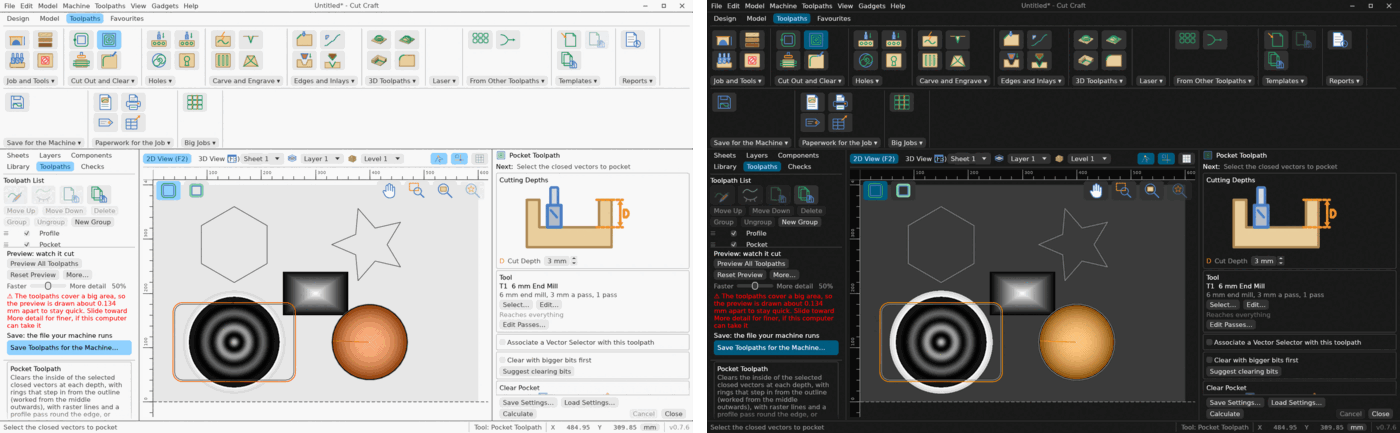
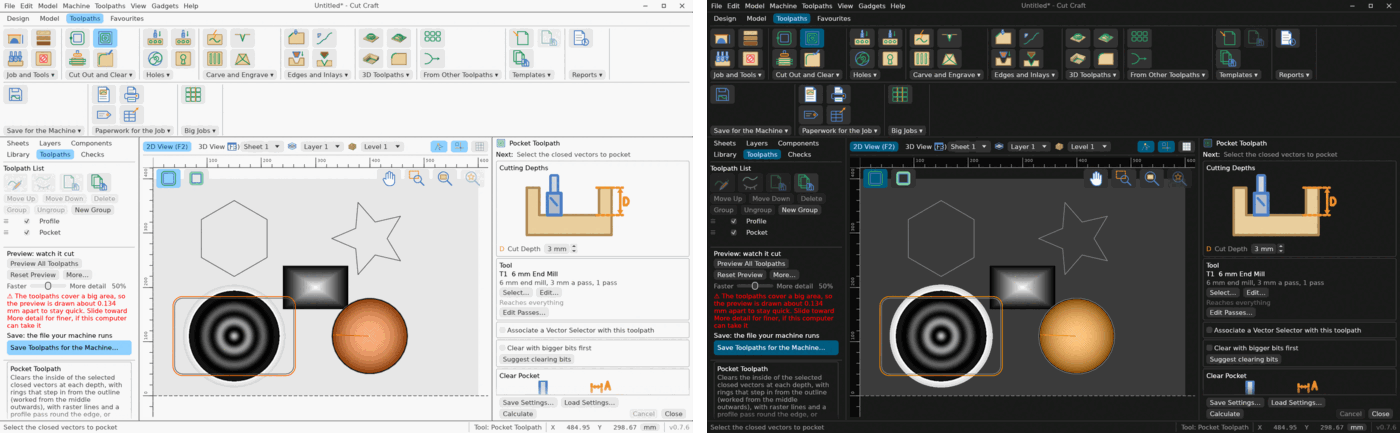
fix: leave off Ribbon groups with no tool for this machine, and correct the pins note
A machine without a laser showed an empty Laser group. The pins note said every
tool starts pinned; each group starts with the tools that fit under its name.
Retake the Ribbon pictures.

Claude-Session: https://claude.ai/code/session_01Uqr4BGyMEYcnxmg4ockVAV

diff --git a/crates/app/src/app/tests/selecting.rs b/crates/app/src/app/tests/selecting.rs
@@ -1305,6 +1305,7 @@ fn a_ribbon_tab_fits_in_two_rows_of_groups_and_each_name_lists_and_pins_every_to
         let (groups, _) = h.app.ribbon_groups();
         let rows: Vec<f32> = groups
             .iter()
+            .filter(|g| g.tools.iter().any(|id| h.app.offered(id)))
             .map(|g| {
                 h.text_at(&format!("{} ▾", g.name))
                     .unwrap_or_else(|| panic!("{} not shown", g.name))
@@ -1381,6 +1382,10 @@ fn at_1920_wide_every_ribbon_tab_is_one_row_of_groups() {
         h.frame(vec![]);
         h.frame(vec![]);
         let (groups, _) = h.app.ribbon_groups();
+        let groups: Vec<_> = groups
+            .iter()
+            .filter(|g| g.tools.iter().any(|id| h.app.offered(id)))
+            .collect();
         let rows: Vec<f32> = groups
             .iter()
             .filter_map(|g| h.text_at(&format!("{} ▾", g.name)).map(|p| p.y))
@@ -1391,4 +1396,29 @@ fn at_1920_wide_every_ribbon_tab_is_one_row_of_groups() {
             "tab {tab}: {rows:?}"
         );
     }
+}
+
+#[test]
+fn a_ribbon_group_with_no_tool_for_this_machine_is_left_off() {
+    let mut h = Harness::new();
+    h.app.options.general.layout = crate::options::WindowLayout::Ribbon;
+    h.window = vec2(1920.0, 1080.0);
+    h.app.ribbon_tab = 2;
+    h.app.machines.add();
+    h.app.machines.active_mut().unwrap().controller = "grblHAL".into();
+    let laser = |h: &mut Harness, fitted: bool| {
+        h.app.machines.active_mut().unwrap().laser = fitted;
+        h.frame(vec![]);
+        h.frame(vec![]);
+        h.text_at("Laser ▾").is_some()
+    };
+    assert!(
+        laser(&mut h, true),
+        "a machine with a laser has the Laser group"
+    );
+    assert!(
+        !laser(&mut h, false),
+        "one without has no empty Laser group"
+    );
+    assert!(h.text_at("Holes ▾").is_some(), "the other groups stay");
 }

diff --git a/crates/app/src/app/layouts.rs b/crates/app/src/app/layouts.rs
@@ -437,7 +437,8 @@ impl CutCraftApp {
     /// A Ribbon tab's groups, as many to a row as fit and the rest on further rows, in order
     /// and each group whole. Each group is its icons on a tight grid two high, as wide as
     /// its name under them; it shows as many of its tools as fill that width (two columns
-    /// at least) until pinned or unpinned by hand.
+    /// at least) until pinned or unpinned by hand. A group with none of its tools on this
+    /// machine is left off.
     fn ribbon_rows(&mut self, ui: &mut egui::Ui, groups: &[gui::ToolGroup], page: Page, edge: f32) {
         let spacing = ui.spacing().clone();
         let font = egui::TextStyle::Body.resolve(ui.style());
@@ -446,6 +447,12 @@ impl CutCraftApp {
         let step = cell.x + spacing.item_spacing.x;
         // the line after each group, and the room either side of it
         let gap = 2.0 * spacing.item_spacing.x + 1.0;
+        // a group with no tool this machine has (Laser without a laser) is left off
+        let groups: Vec<gui::ToolGroup> = groups
+            .iter()
+            .copied()
+            .filter(|group| group.tools.iter().any(|id| self.offered(id)))
+            .collect();
         let plans: Vec<(Vec<&'static str>, f32)> = groups
             .iter()
             .map(|group| {
